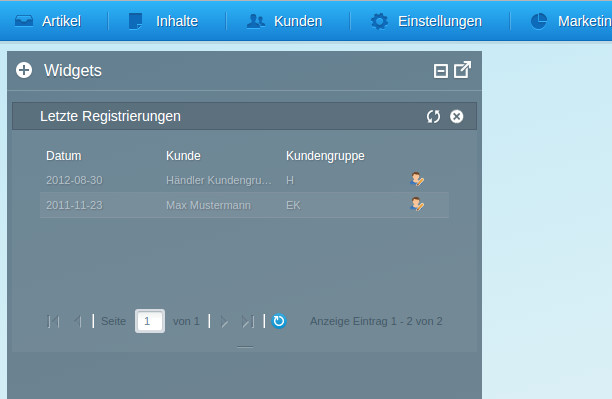
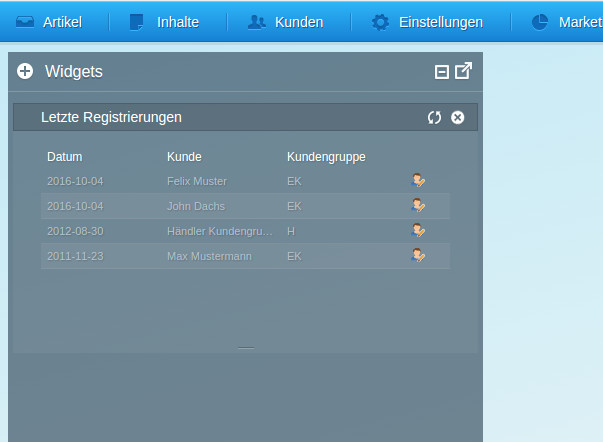
remove paging bar

diff --git a/exampleplugins/5.2/SwagLastRegistrationsWidget/Resources/views/backend/index/swag_last_registrations/view/main.js b/exampleplugins/5.2/SwagLastRegistrationsWidget/Resources/views/backend/index/swag_last_registrations/view/main.js
@@ -65,12 +65,7 @@ Ext.define('Shopware.apps.Index.swagLastRegistrationsWidget.view.Main', {
         return Ext.create('Ext.grid.Panel', {
             border: 0,
             store: me.accountStore,
-            columns: me.createColumns(),
-            bbar: {
-                xtype: 'pagingtoolbar',
-                displayInfo: true,
-                store: me.accountStore
-            }
+            columns: me.createColumns()
         });
     },
 

diff --git a/exampleplugins/5.2/SwagLastRegistrationsWidget/Controllers/Backend/SwagLastRegistrationsWidget.php b/exampleplugins/5.2/SwagLastRegistrationsWidget/Controllers/Backend/SwagLastRegistrationsWidget.php
@@ -19,13 +19,13 @@ class Shopware_Controllers_Backend_SwagLastRegistrationsWidget extends Shopware_
             '(SELECT COUNT(*) FROM s_user) AS total'
         ])
             ->from('s_user', 'user')
-            ->innerJoin('user','s_user_billingaddress', 'billing', 'user.id = billing.userID')
+            ->innerJoin('user', 's_user_billingaddress', 'billing', 'user.id = billing.userID')
             ->orderBy('date', 'DESC');
 
-        if(!empty($start)){
+        if (!empty($start)) {
             $queryBuilder->setFirstResult($start);
         }
-        if(!empty($limit)){
+        if (!empty($limit)) {
             $queryBuilder->setMaxResults($limit);
         }
 

diff --git a/source/developers-guide/plugin-lastregistrations-widget/index.md b/source/developers-guide/plugin-lastregistrations-widget/index.md
@@ -130,13 +130,13 @@ class Shopware_Controllers_Backend_SwagLastRegistrationsWidget extends Shopware_
             '(SELECT COUNT(*) FROM s_user) AS total'
         ])
             ->from('s_user', 'user')
-            ->innerJoin('user','s_user_billingaddress', 'billing', 'user.id = billing.userID')
+            ->innerJoin('user', 's_user_billingaddress', 'billing', 'user.id = billing.userID')
             ->orderBy('date', 'DESC');
 
-        if(!empty($start)){
+        if (!empty($start)) {
             $queryBuilder->setFirstResult($start);
         }
-        if(!empty($limit)){
+        if (!empty($limit)) {
             $queryBuilder->setMaxResults($limit);
         }
 
@@ -236,12 +236,7 @@ Ext.define('Shopware.apps.Index.swagLastRegistrationsWidget.view.Main', {
         return Ext.create('Ext.grid.Panel', {
             border: 0,
             store: me.accountStore,
-            columns: me.createColumns(),
-            bbar: {
-                xtype: 'pagingtoolbar',
-                displayInfo: true,
-                store: me.accountStore
-            }
+            columns: me.createColumns()
         });
     },
 
